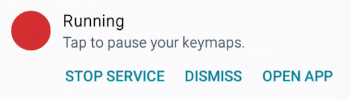
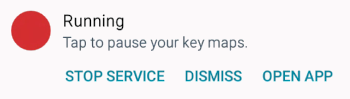
website: improvements to QSG and a draft of fingerprint gestures guide

Changed region(s): [[0.5714, 0.3939, 0.7143, 0.5152]]

diff --git a/docs/user-guide/fingerprint-gestures.md b/docs/user-guide/fingerprint-gestures.md
@@ -1,0 +1,104 @@
+This page aims to explain how to remap fingerprint gestures.
+For specific troubleshooting, [consult the FAQ.](../faq)
+
+Where screenshots are necessary, this guide uses two devices to demonstrate.
+
+1. OnePlus 7 Pro, Android 10, Dark theme, 1440p, tiny font size
+2. Samsung J3 6, Android 5, Light theme, 720p, medium font size
+
+App interface pictured: `keymapper-2.3.0-alpha-ci.778`
+
+This guide is updated to match current stable release UI. [Report inaccuracies.](https://github.com/sds100/KeyMapper/issues/new)
+
+## Disclaimer
+
+On some devices, the fingerprint sensor can be remapped by Key Mapper. There are generally 3 categories of devices with varying degrees of support for this feature:
+
+1. Some devices have a fingerprint sensor that can detect directional gestures (up, down, left, right swipes) and your device allows third party apps such as Key Mapper to access and remap these.
+2. Some devices have a fingerprint sensor that can detect directional gestures (up, down, left, right swipes) but your device does not allow Key Mapper to access them.
+3. Some devices have a fingerprint sensor that is not capable of detecting directional gestures. This generally includes in-screen fingerprint sensors.
+
+If your device falls into categories 2 or 3, you cannot remap fingerprint gestures, and you shouldn't continue with this guide. Even if your device allows for directional fingerprint gestures for system use, they may not allow third party apps such as Key Mapper to access them and therefore there is nothing the developer of Key Mapper can do to help you.
+
+If your device supports remapping directional fingerprint gestures, this guide is for you.
+
+## Remapping fingerprint gestures
+
+From the Key Mapper home screen, tab the 'Fingerprint' tab.
+
+Here you can set actions for the 4 directional gestures. Tapping any one of them will bring you to the action assignment screen for that gesture and by tapping 'Add action' at the bottom of the screen you can assign the action. [Click here for an explanation of all the actions you can choose from.](#)
+
+After choosing an action (or actions) you can press the save :fontawesome-solid-save: icon in the bottom right to save the mapping.
+
+## Customising fingerprint gesture maps
+
+If you would like to further customise the gesture map, you can tap the 3 dot menu :fontawesome-solid-ellipsis-v: to the right of the action and open the 'action settings'.
+
+On this screen you can choose from the following options:
+
+:fontawesome-solid-check-square:{: .accent-light } &nbsp; Hold down until swiped again
+
+This option allows for keycode actions to be 'held', much like you could hold down a physical keyboard key. The action will continue until the same gesture is performed a second time.
+
+___
+
+&nbsp;Delay before next action (ms)<br /> 
+![](../images/ui-slider-default-light-450px.png)
+
+This option takes effect if you have multiple actions in your gesture map. The slider sets the amount of time between this action and the next.
+
+___
+
+&nbsp;Action count<br /> 
+![](../images/ui-slider-default-light-450px.png)
+
+This option serves as a multiplier. If action count is equal to 1, when your gesture map is triggered, your action will be performed once. If it is equal to 5, the action will be performed 5 times, etc.
+
+___
+
+:fontawesome-solid-check-square:{: .accent-light } &nbsp; Repeat until swiped again
+
+When this is turned on, Key Mapper will execute your actions repeatedly. This is particularly useful when emulating a keyboard key press, where in most applications holding down the key would result in a repeating output. 
+
+___
+
+&nbsp;Repeat every... (ms)<br /> 
+![](../images/ui-slider-default-light-450px.png)
+
+This option sets the time period for your repeating action. If this is set to 200, your action will repeat every 200ms, or in terms of frequency, 5 times per second. Some people prefer to think about this setting as a repeat rate, commonly measured in 'clicks' per second or cps. To calculate the appropriate time period for this option from a desired frequency, use this equation:
+
+```
+Time period (ms) = 1000 / Frequency ('cps')
+```
+___
+
+Tap 'Save' to close the menu, preserving changes.
+
+## Special options
+
+For extra customisation, tap the 'Constraints and more' tab at the top of the screen when editing or creating a gesture map.
+
+:fontawesome-solid-check-square:{: .accent-light } &nbsp; Vibrate
+
+&nbsp;Vibrate duration (ms)<br /> 
+![](../images/ui-slider-default-light-450px.png)
+
+Tapping 'Vibrate' will cause your device to vibrate whenever your gesture map is triggered.
+
+## Adding constraints
+
+You can add special constraints to your gestures maps in order to customise when they are allowed to run.
+
+To add a constraint fron the 'Constraints and more' tab, tap 'Add constraint'.
+
+You can choose from the following options:
+
+Choosing 'App in foreground' will allow you to restrict your gesture map to working only if your app of choice is the actively selected window, i.e. on screen and being interacted with. 'App not in foreground' will likewise restrict your gesture map to working only if your app of choice isn't in focus.
+
+Choosing 'Bluetooth device is connected/disconnected' can restrict your gesture map to working only if a specific bluetooth device is connected/disconnected.
+
+If you have [root permission](#), you can restrict your gesture maps to work only when the screen is on or off.
+
+Choosing 'Orientation' can restrict your gesture map to working only when the device is set to specific screen orientation.
+
+Make sure to save :fontawesome-solid-save: your gesture map after applying these changes.

diff --git a/docs/quick-start.md b/docs/quick-start.md
@@ -67,7 +67,9 @@ A key map is an association between a user input (such as pushing a key or butto
 
 In Key Mapper, 'user inputs' that are recognised by the app are called 'triggers'. The responses from your device that were due to a trigger being pressed are called 'actions'.
 
-Key Mapper lets you assign actions to triggers that may be different from their default use. A 'volume-up' trigger normally increases the volume when pressed, but this app can change that to something else.
+Key Mapper lets you assign actions to triggers that may be different from their default use. A 'volume up' trigger normally increases the volume when pressed, but this app can change that to something else.
+
+This guide deals with 'Key event' triggers. If you want to remap fingerprint gestures, [check out this guide.](#)
 
 ### Setting the trigger(s)
 
@@ -75,7 +77,7 @@ To create your first key map, tap the + icon at the bottom of the Key Mapper hom
 
 ![](images/hg-keymap-0.png) ![](images/hg-keymap-0-light.png)
 
-In either case, the first step is to record a trigger. Tap the red RECORD TRIGGER button and then press the physical button that you want to change the function of. In this guide I will demonstrate with Volume Down.
+In either case, the first step is to record a trigger. Tap the red 'Record trigger' button and then press the physical button that you want to change the function of. In this guide I will demonstrate with 'volume down'.
 
 Key Mapper can also create a key map with multiple triggers. If you want to use more than one trigger for one key map, you can press the buttons in the order you will press them to execute the key map. For example, if you wanted to map 'Ctrl' + 'H' to show the device home menu, you should press 'Ctrl' and then 'H'.
 
@@ -164,7 +166,7 @@ ___
 
 :fontawesome-solid-check-square:{: .accent-light } &nbsp; Repeat
 
-When this is turned on, Key Mapper will execute your key map repeatedly. This is particularly useful when emulating a keyboard key press, where in most applications holding down the key would result in a repeating output. The default settings in Key Mapper are designed to emulate that behaviour when 'Repeat' is turned on.
+When this is turned on, Key Mapper will execute your actions repeatedly. This is particularly useful when emulating a keyboard key press, where in most applications holding down the key would result in a repeating output. The default settings in Key Mapper are designed to emulate that behaviour when 'Repeat' is turned on.
 
 ___
 
@@ -224,6 +226,8 @@ This allows you to set how long the action is held down for before repeating.
 
 For extra key map customisation, tap the 'Constraints and more' tab at the top of the screen when editing or creating a key map.
 
+![](images/hg-keymap-4.png) ![](images/hg-keymap-4-light.png)
+
 :fontawesome-solid-check-square:{: .accent-light } &nbsp; Trigger by Intent
 
 For information about Trigger by Intent go to [this page.](../user-guide/actions/#intent-230)
@@ -237,9 +241,25 @@ ___
 
 Tapping 'Vibrate' will cause your device to vibrate whenever your key map is triggered (and therefore behaves similarly to the [toast message](#))
 
-## Constraints
+## Adding constraints
 
 You can add special constraints to your key maps in order to customise when they are allowed to run.
+
+To add a constraint fron the 'Constraints and more' tab, tap 'Add constraint'.
+
+You can choose from the following options:
+
+![](images/hg-constraints-add.png) ![](images/hg-constraints-add-light.png) 
+
+Choosing 'App in foreground' will allow you to restrict your key map to working only if your app of choice is the actively selected window, i.e. on screen and being interacted with. 'App not in foreground' will likewise restrict your key map to working only if your app of choice isn't in focus.
+
+Choosing 'Bluetooth device is connected/disconnected' can restrict your key map to working only if a specific bluetooth device is connected/disconnected.
+
+If you have [root permission](#), you can restrict your key maps to work only when the screen is on or off.
+
+Choosing 'Orientation' can restrict your key map to working only when the device is set to specific screen orientation.
+
+Make sure to save :fontawesome-solid-save: your key map after applying these changes.
 
 ## Managing key maps
 
